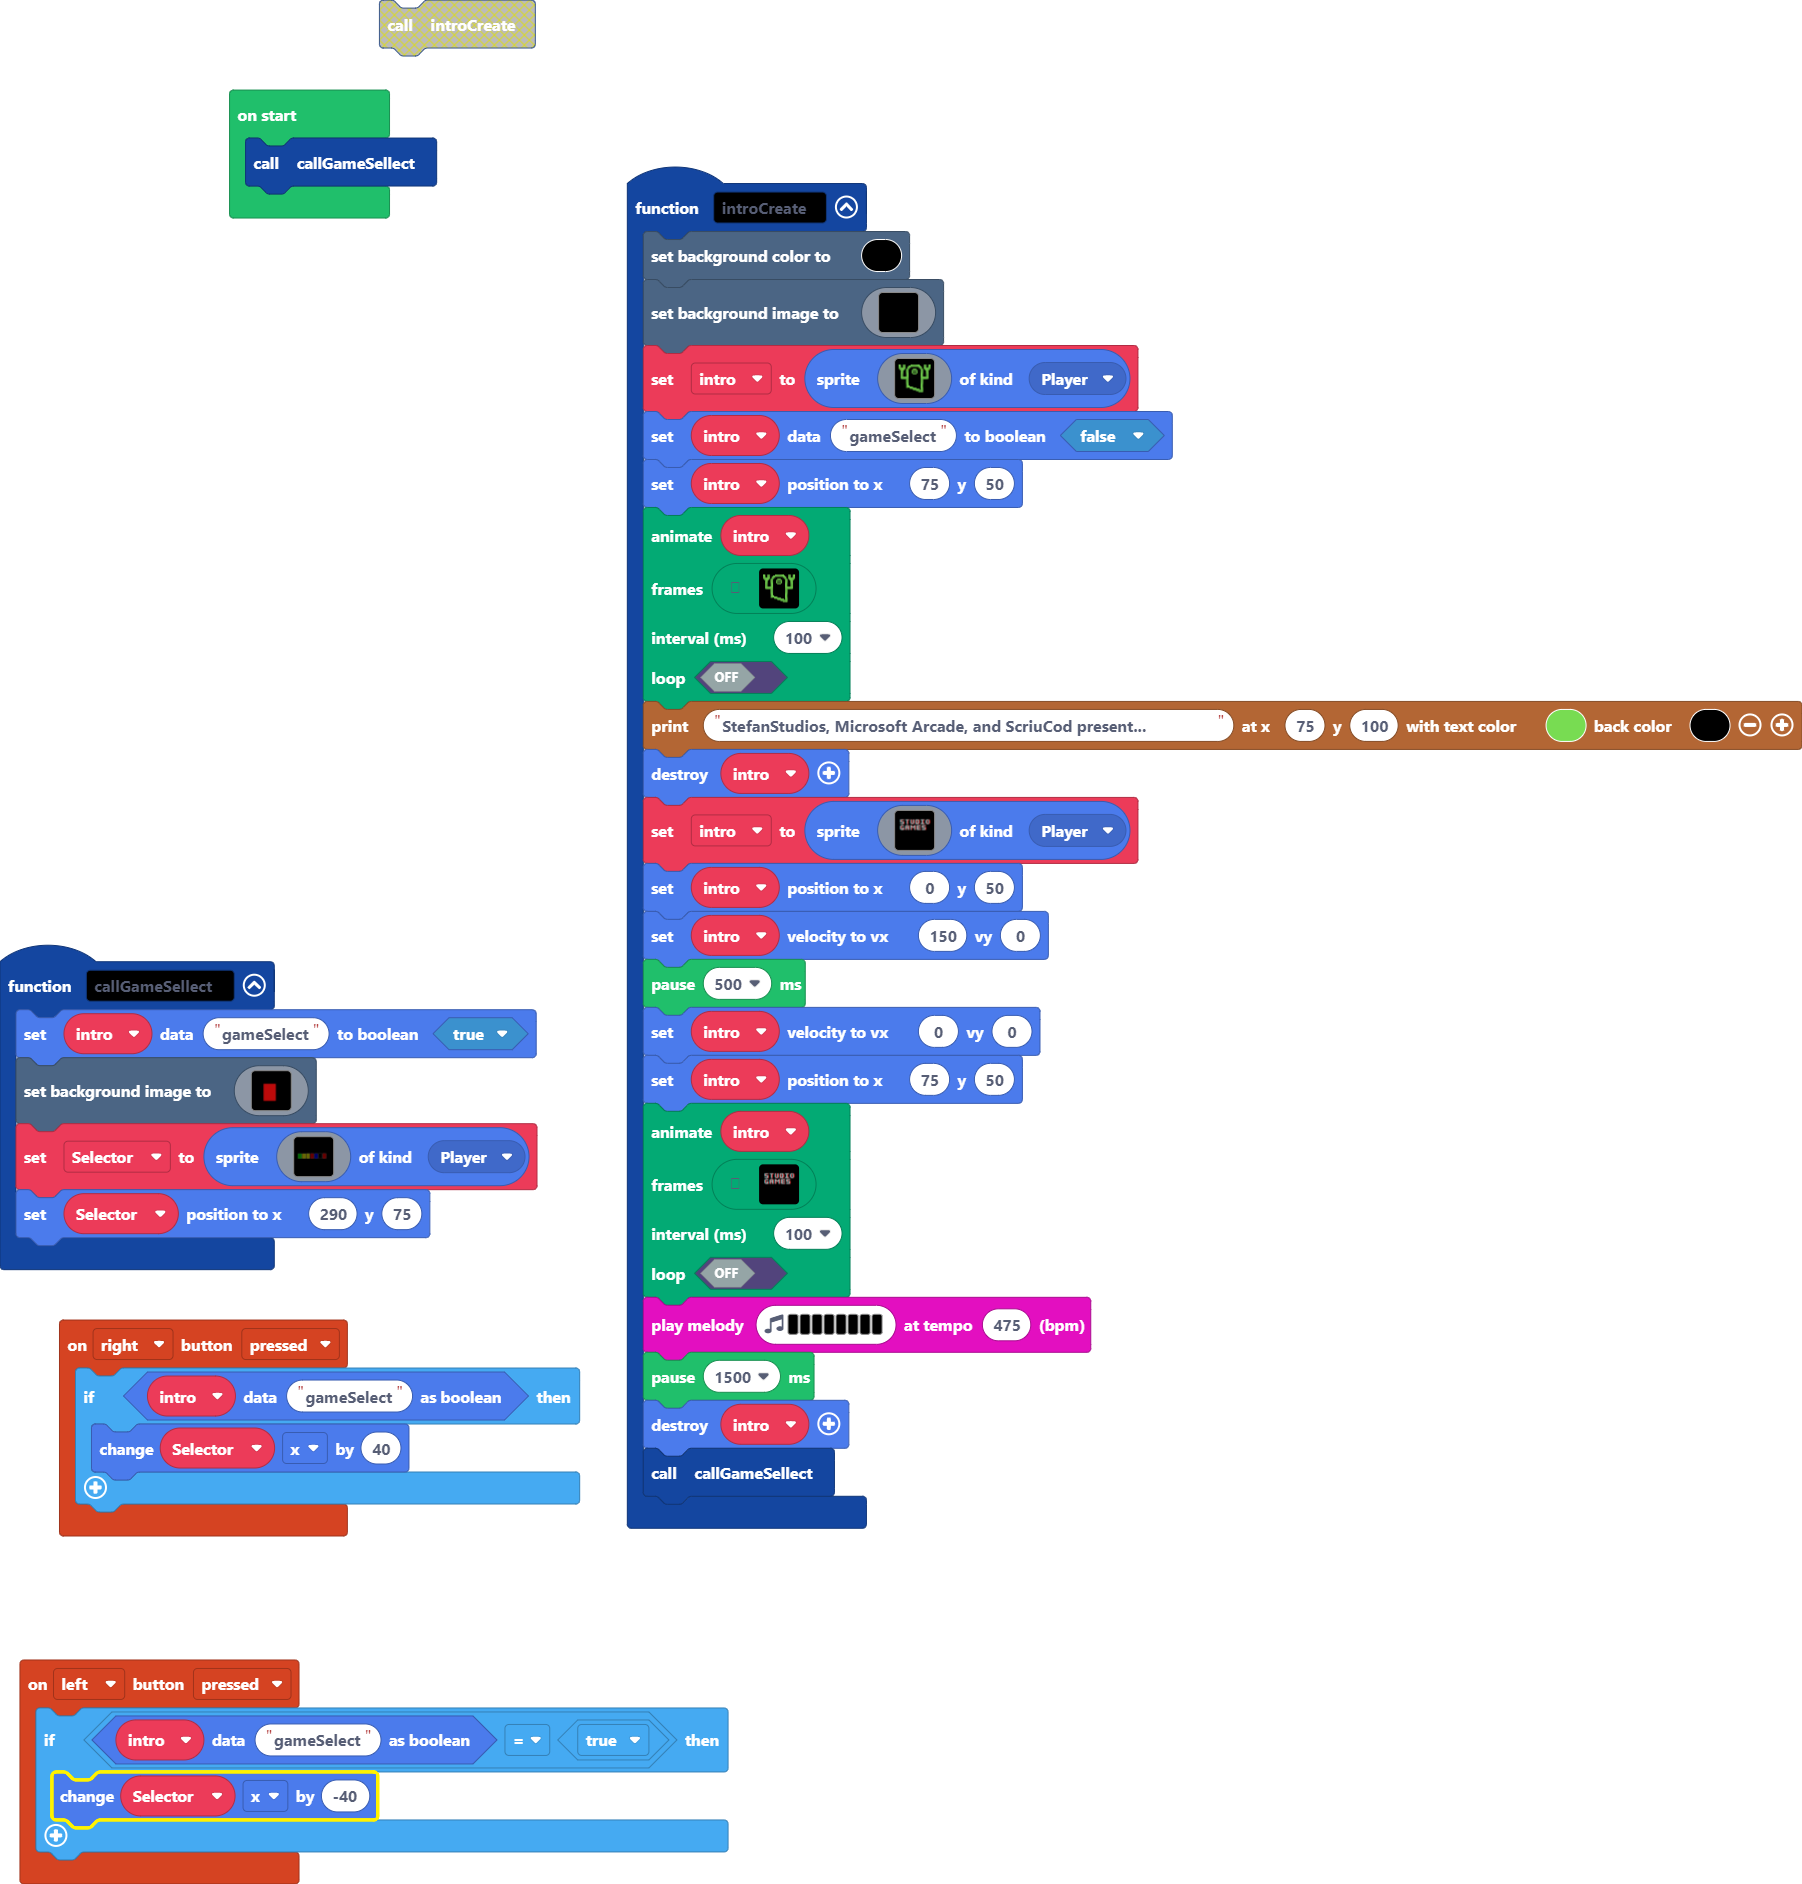
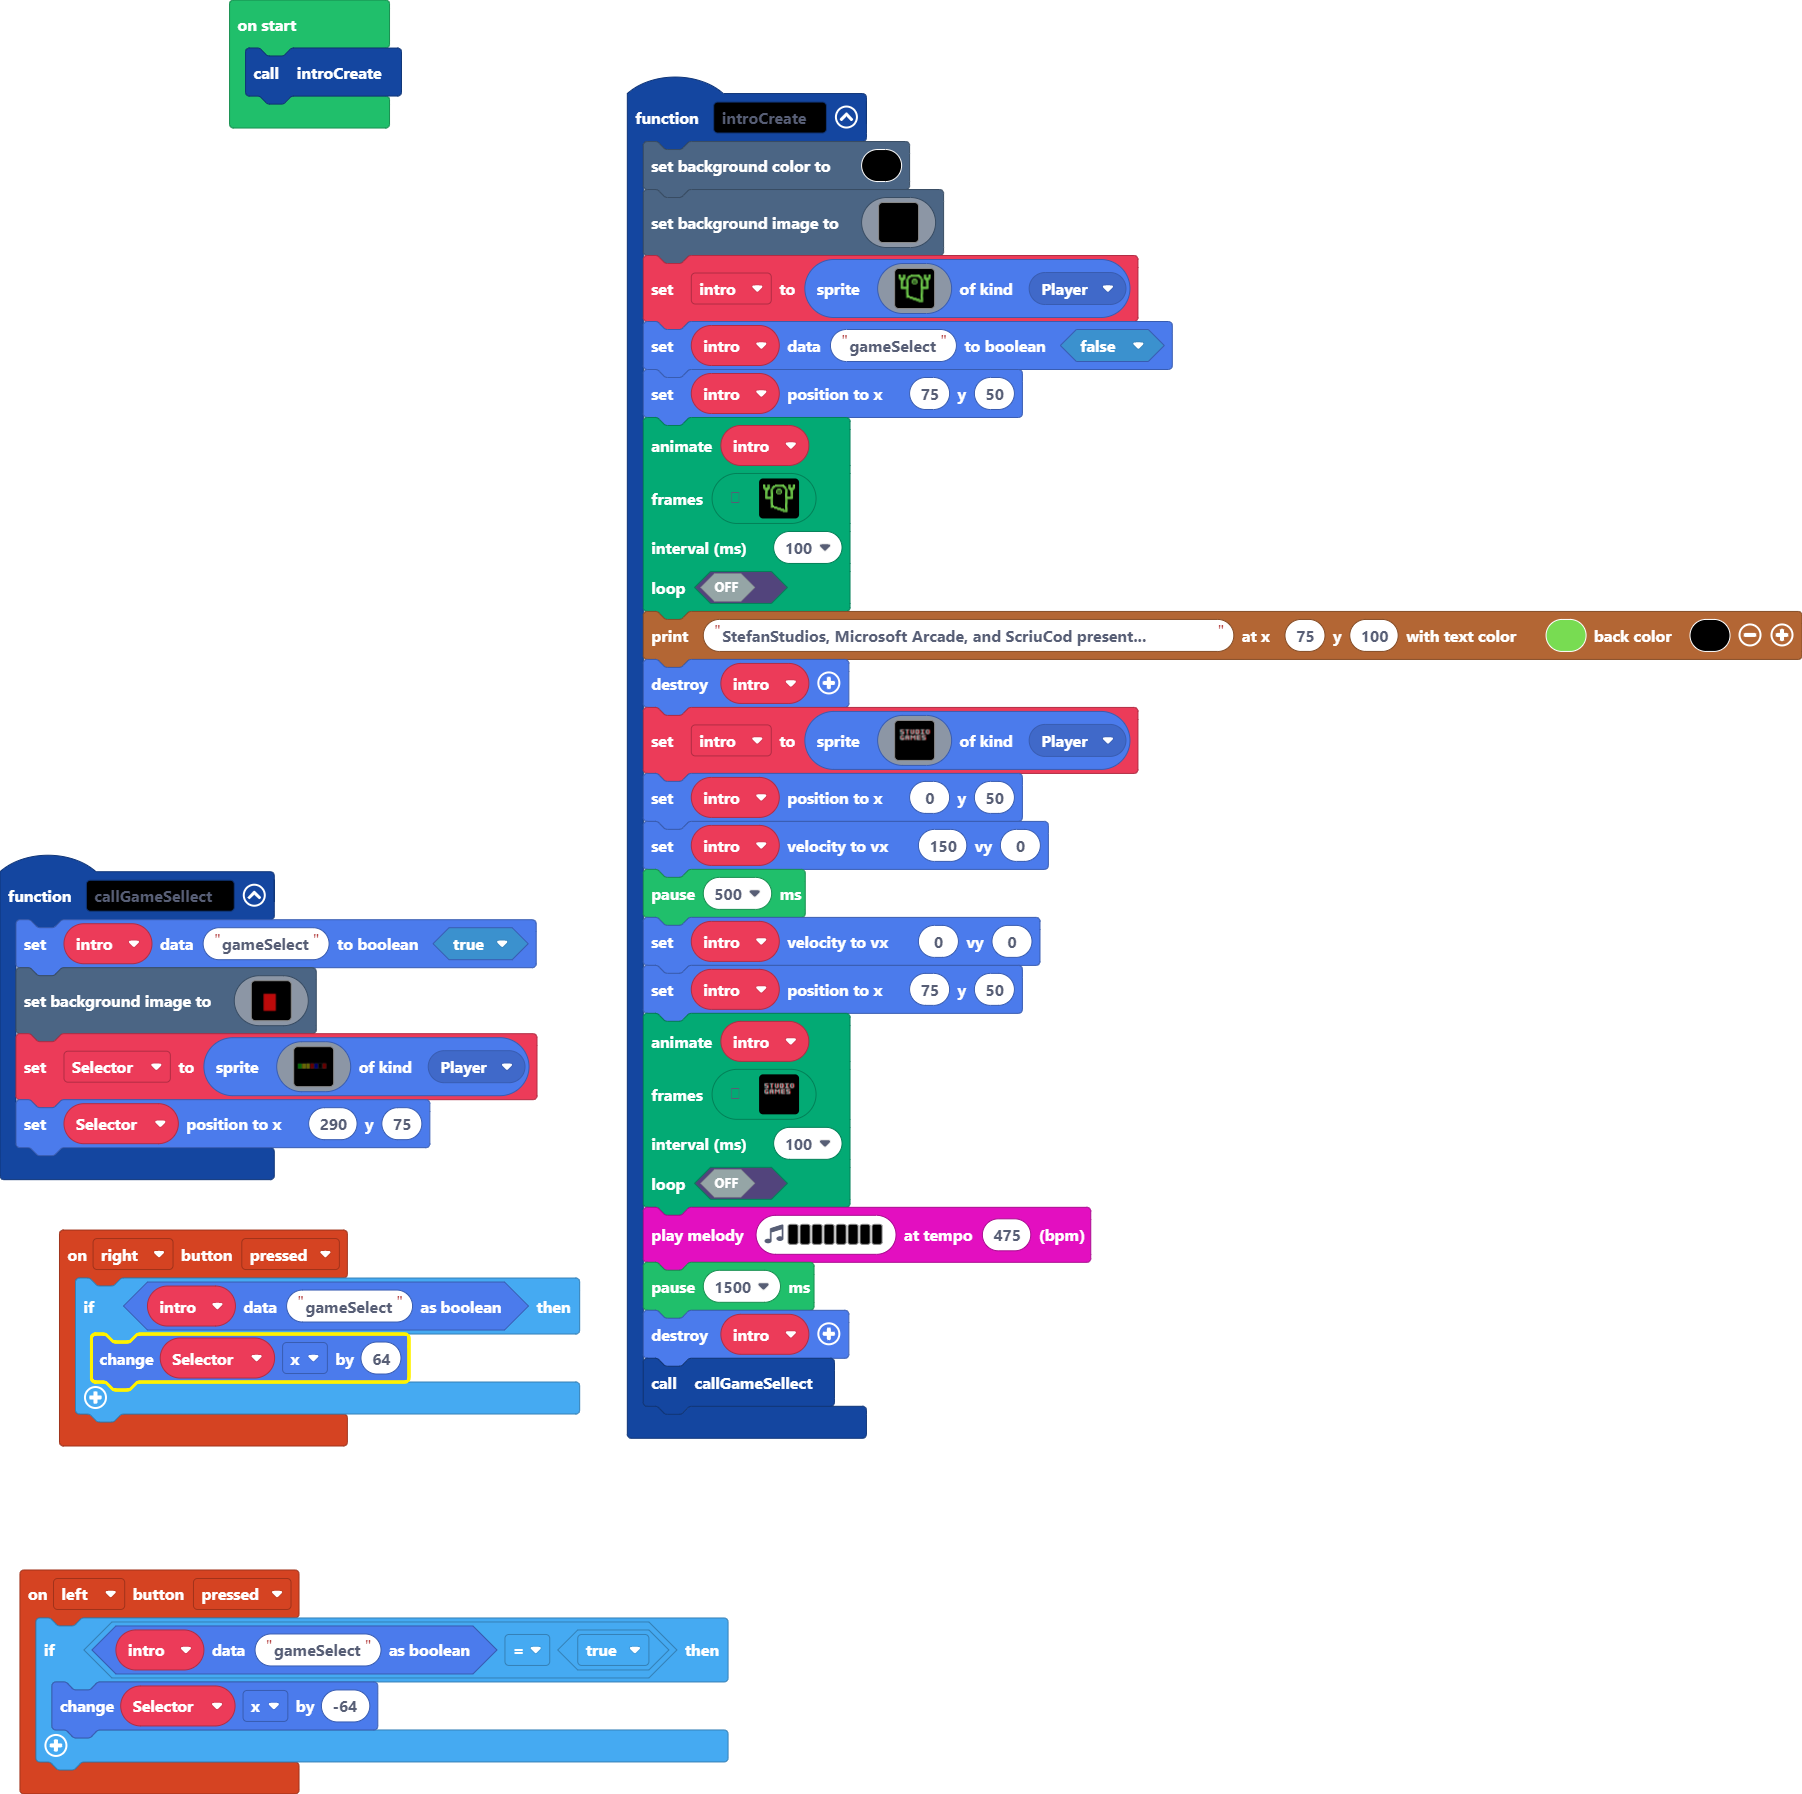
You can now scroll through the menu.

Changed region(s): [[0.0, 0.0312, 1.0, 0.8428], [0.0, 0.874, 0.404, 0.9989], [0.1243, 0.0, 0.3108, 0.1249]]

diff --git a/main.ts b/main.ts
@@ -1,6 +1,6 @@
 controller.left.onEvent(ControllerButtonEvent.Pressed, function () {
     if (sprites.readDataBoolean(intro, "gameSelect") == true) {
-        Selector.x += -40
+        Selector.x += -64
     }
 })
 function introCreate () {
@@ -1157,7 +1157,7 @@ function introCreate () {
 }
 controller.right.onEvent(ControllerButtonEvent.Pressed, function () {
     if (sprites.readDataBoolean(intro, "gameSelect")) {
-        Selector.x += 40
+        Selector.x += 64
     }
 })
 function callGameSellect () {
@@ -1410,4 +1410,4 @@ function callGameSellect () {
 }
 let Selector: Sprite = null
 let intro: Sprite = null
-callGameSellect()
+introCreate()
